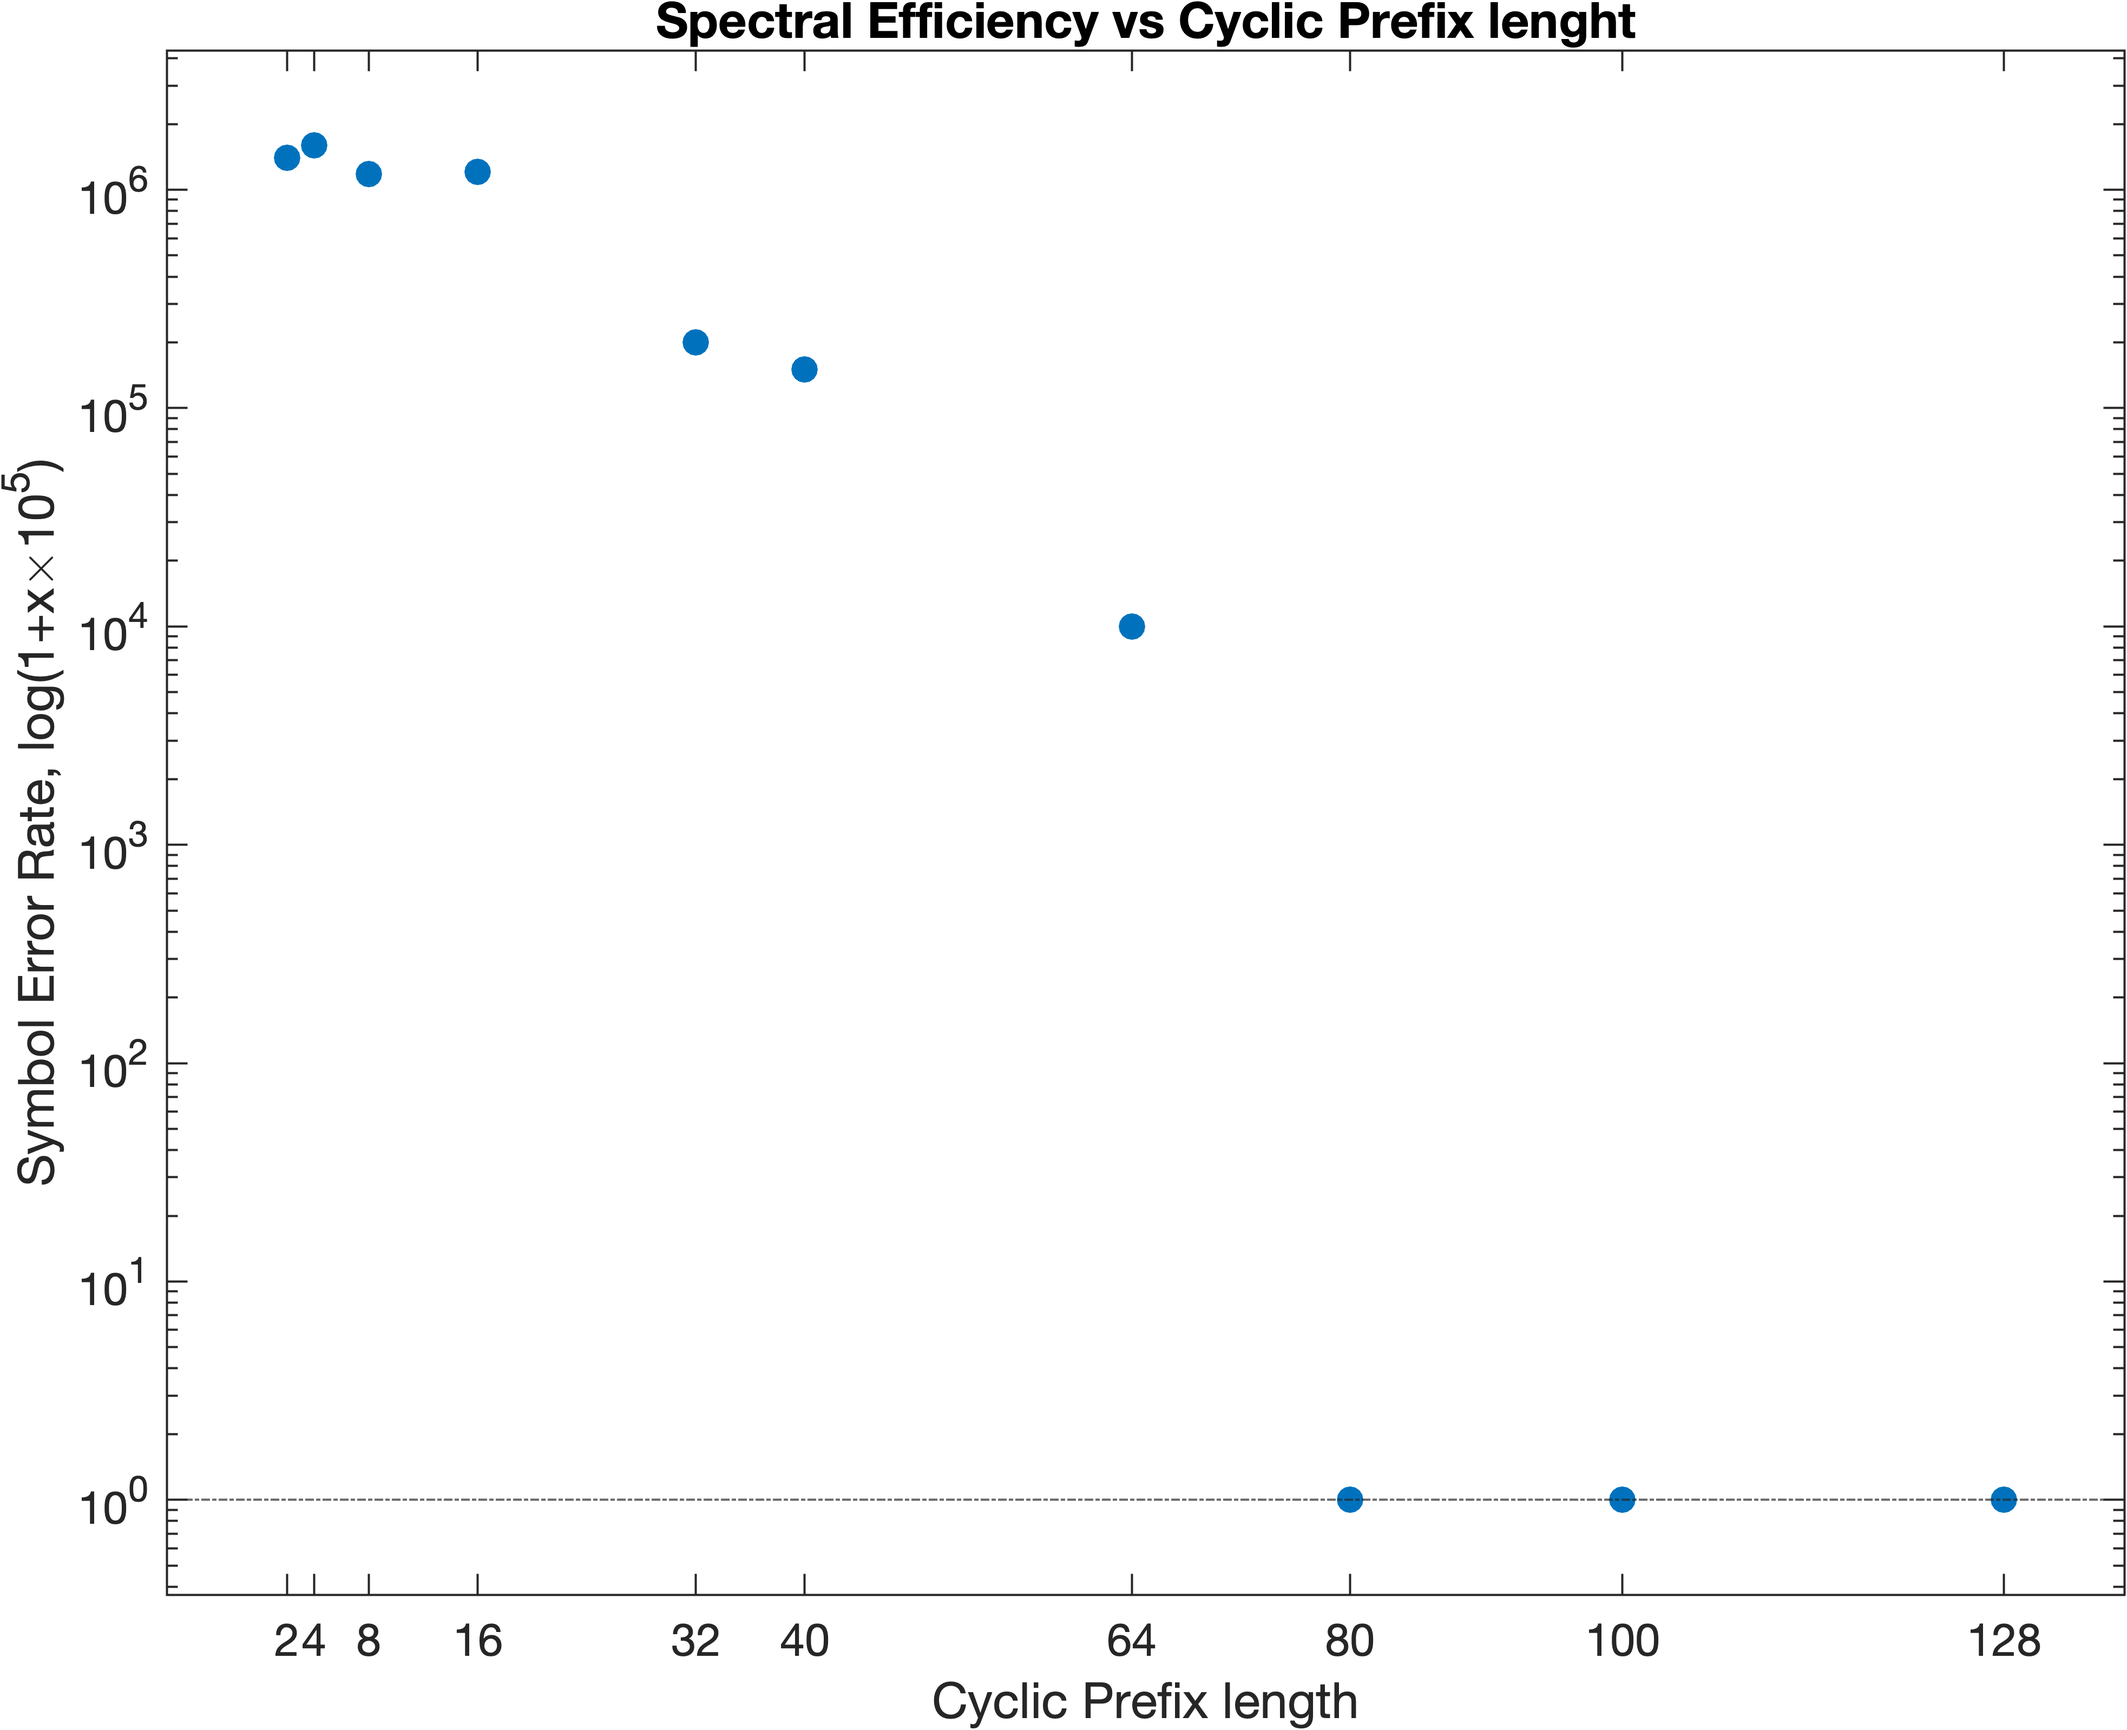
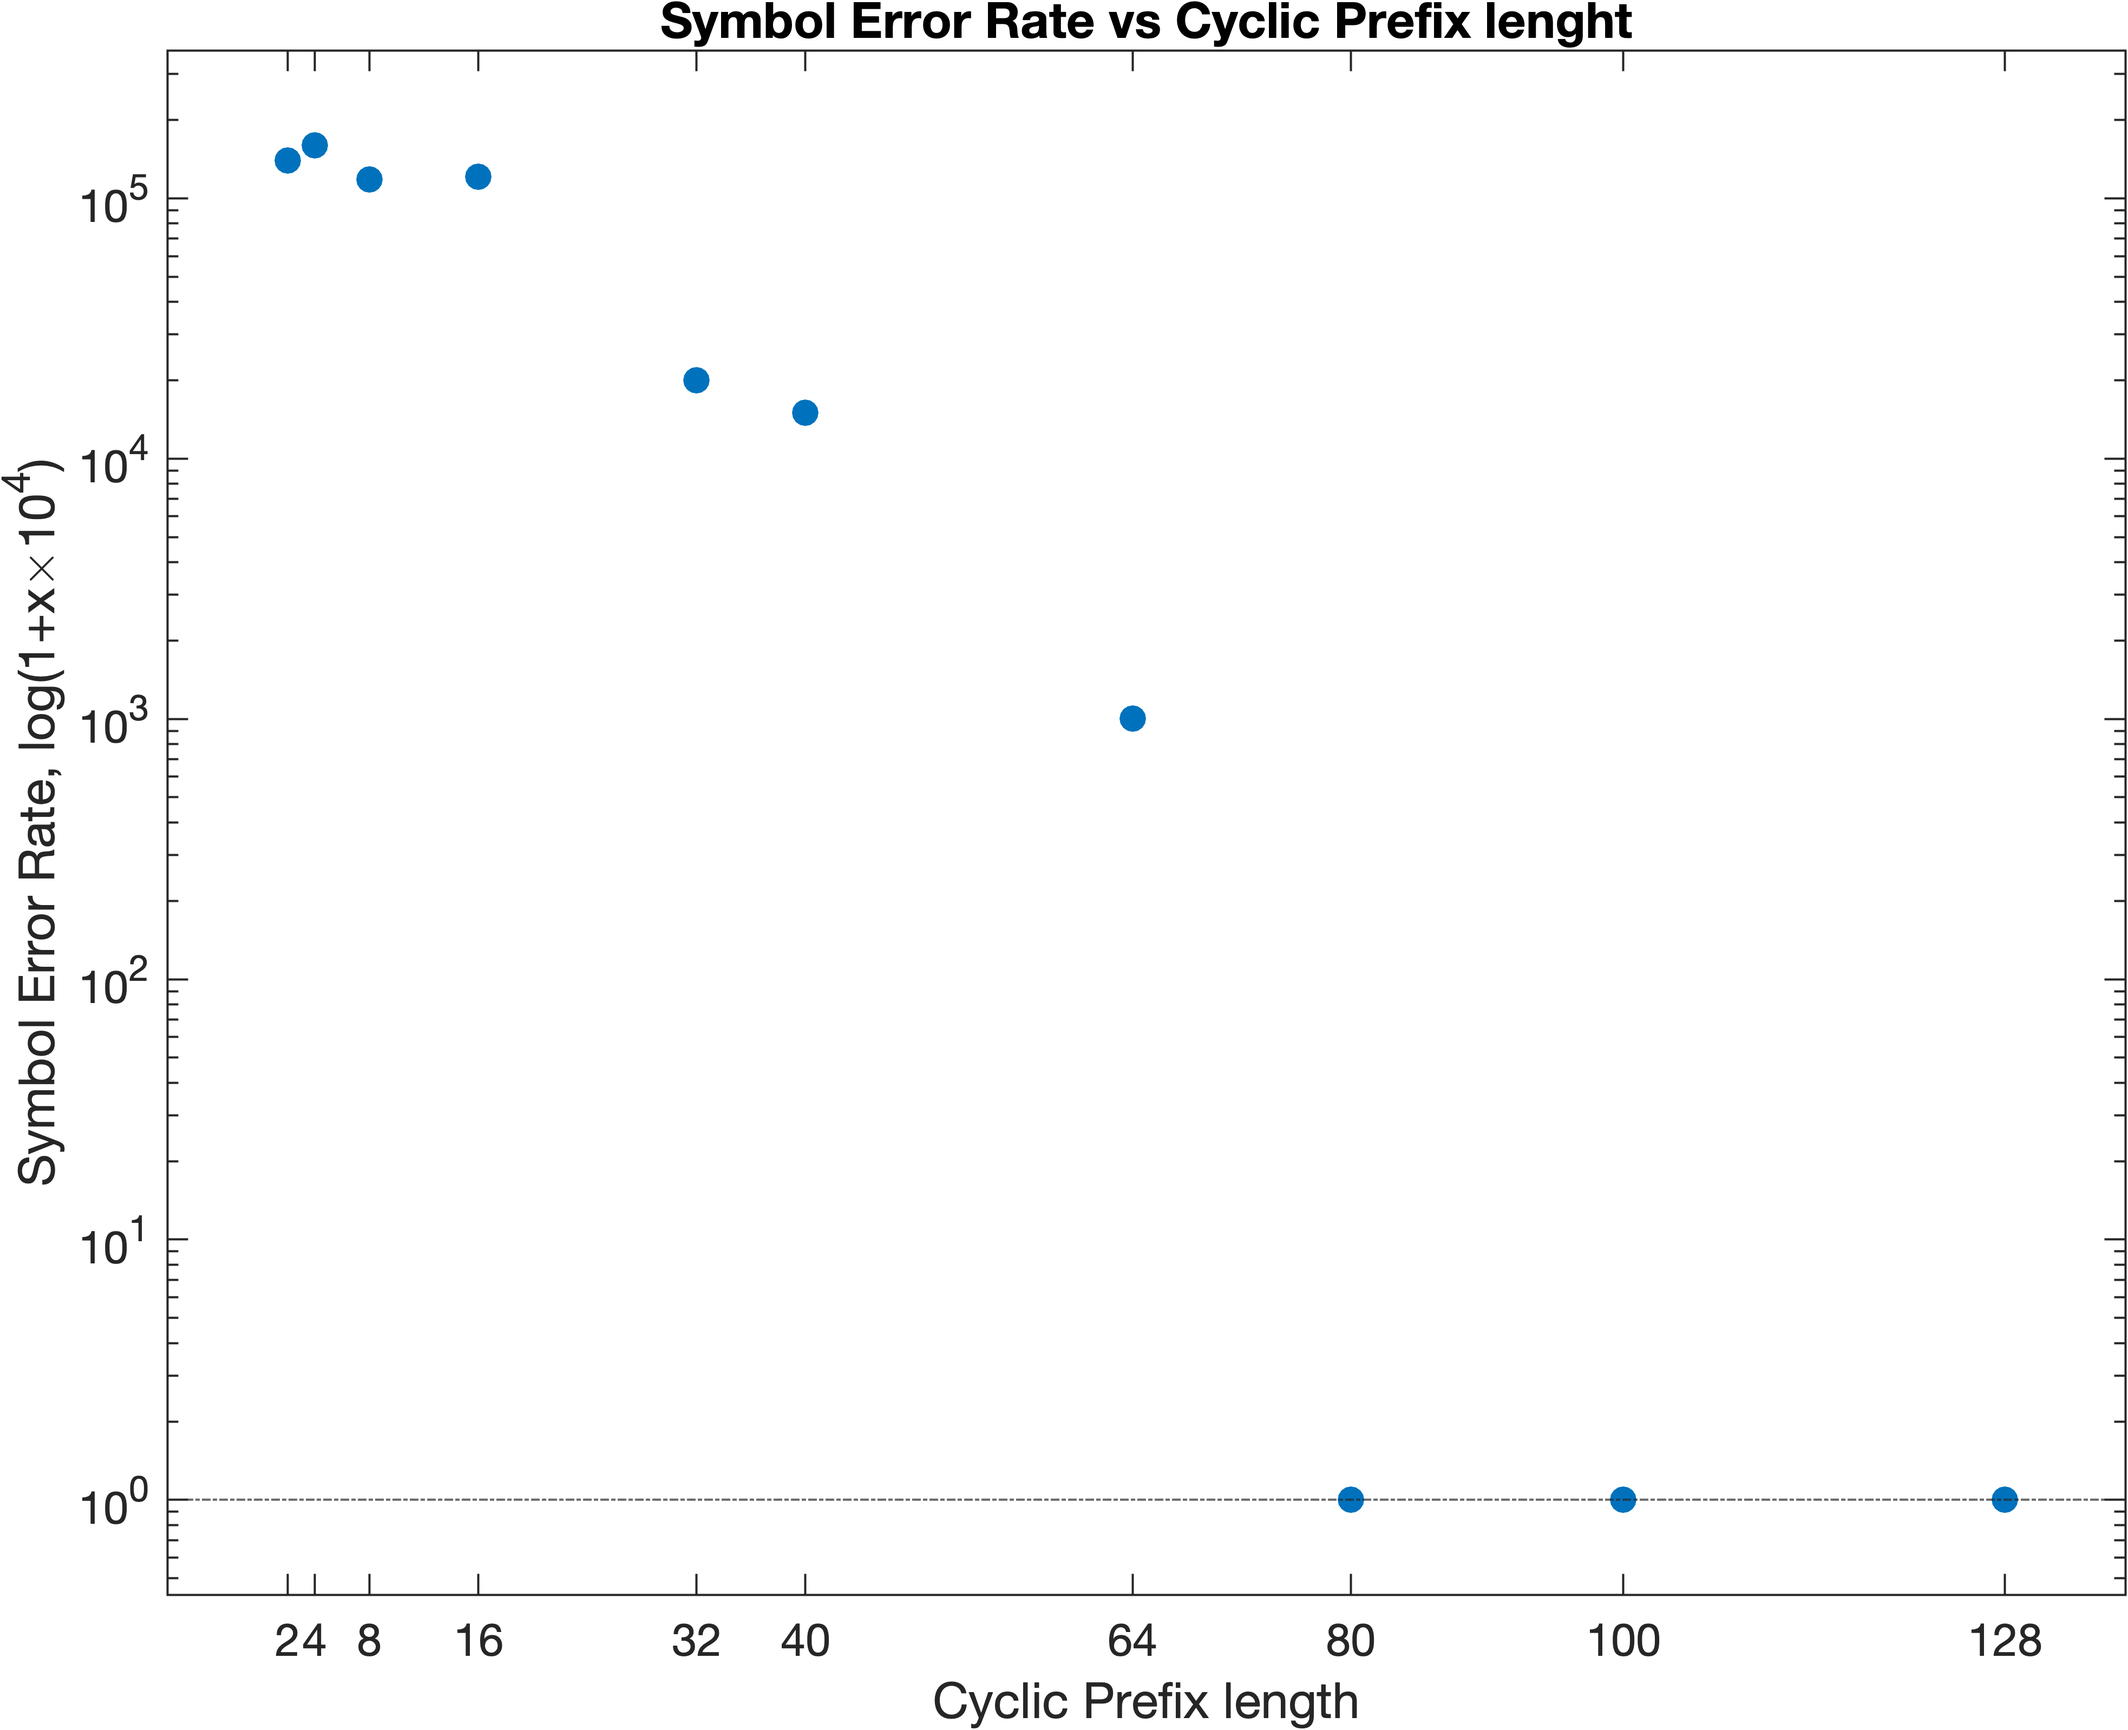
pro

diff --git a/project_matlab/main.m b/project_matlab/main.m
@@ -202,12 +202,12 @@ exportgraphics(gcf,'plots/SER_CPlen_TEST.png','Resolution',600)
 %%
 figure(2);
 CP_len_list = [2, 4, 8, 16, 32, 40, 64, 80, 100, 128];
-spectral_efficiency_list = [14, 16, 11.8, 12.1, 2, 1.5, 0.1, 0, 0, 0].*10^5;
+spectral_efficiency_list = [14, 16, 11.8, 12.1, 2, 1.5, 0.1, 0, 0, 0].*10^4;
 
 semilogy(CP_len_list, 1+spectral_efficiency_list, '.', 'MarkerSize',20);
-title("Spectral Efficiency vs Cyclic Prefix lenght");
+title("Symbol Error Rate vs Cyclic Prefix lenght");
 xlabel("Cyclic Prefix length");
-ylabel("Symbol Error Rate, log(1+x\times10^5)");
+ylabel("Symbol Error Rate, log(1+x\times10^4)");
 xticks(CP_len_list);
 yline(1, '-.')
 axis padded;
